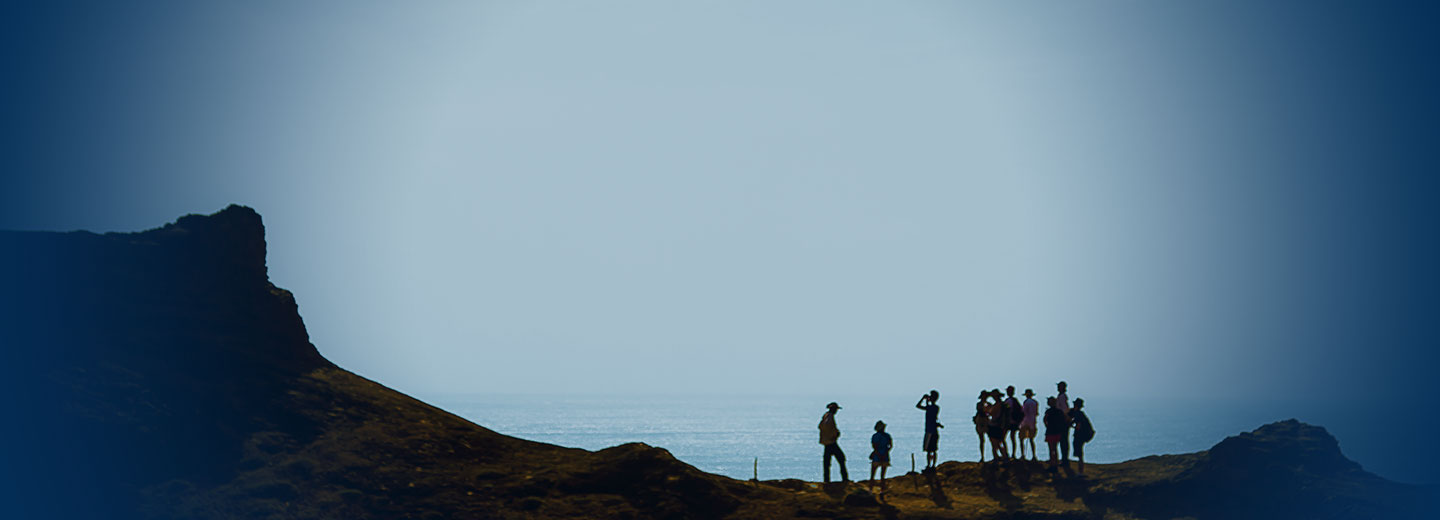
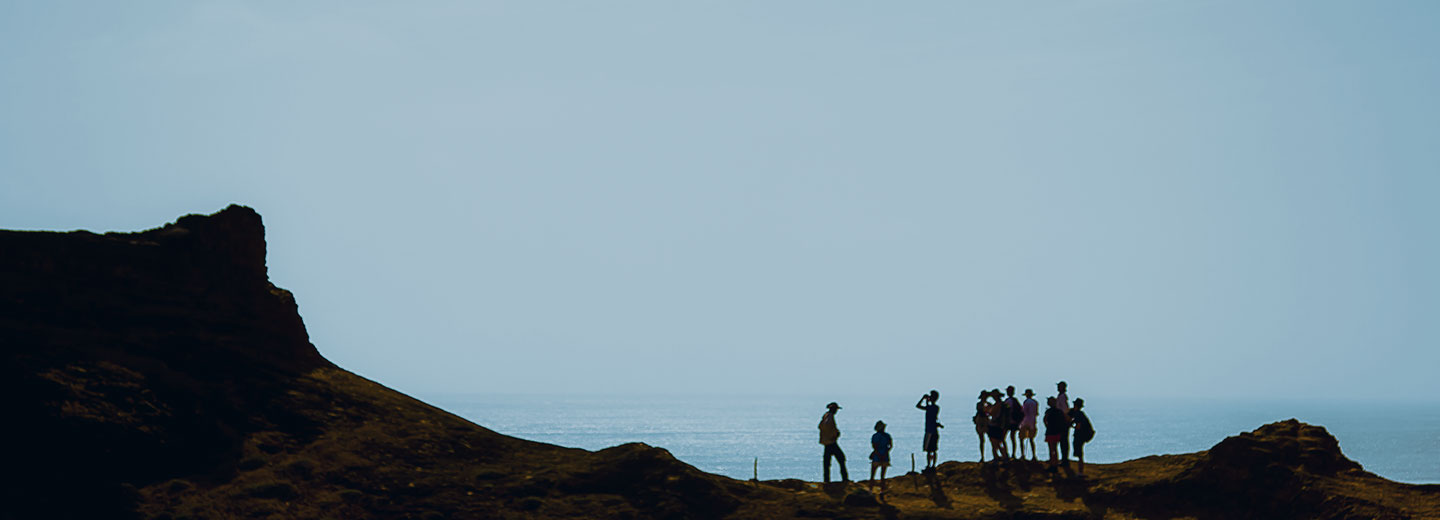
overlay for destination-items

diff --git a/styles/inca.less b/styles/inca.less
@@ -440,6 +440,20 @@ p > a:first-child {
     left: 5px;
 
     color: white;
+
+    &:before {
+        content: ' ';
+        position: absolute;
+        top: 0;
+        right: 0;
+        bottom: 0;
+        left: 0;
+        display: block;
+        background: radial-gradient(circle, rgba(4,45,86,0) 0%, rgba(4,45,86,0.4) 55%, rgba(4,45,86,1) 100%);
+        background-position: center center;
+        background-size: 100%;
+        background-repeat: no-repeat;
+    }
 }
 
 .destination-item__desc {
